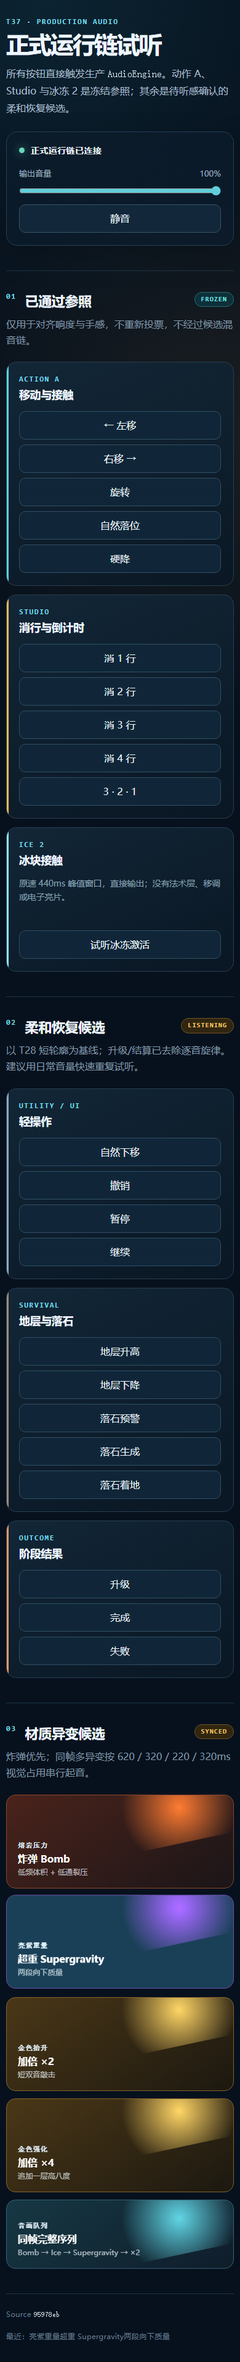
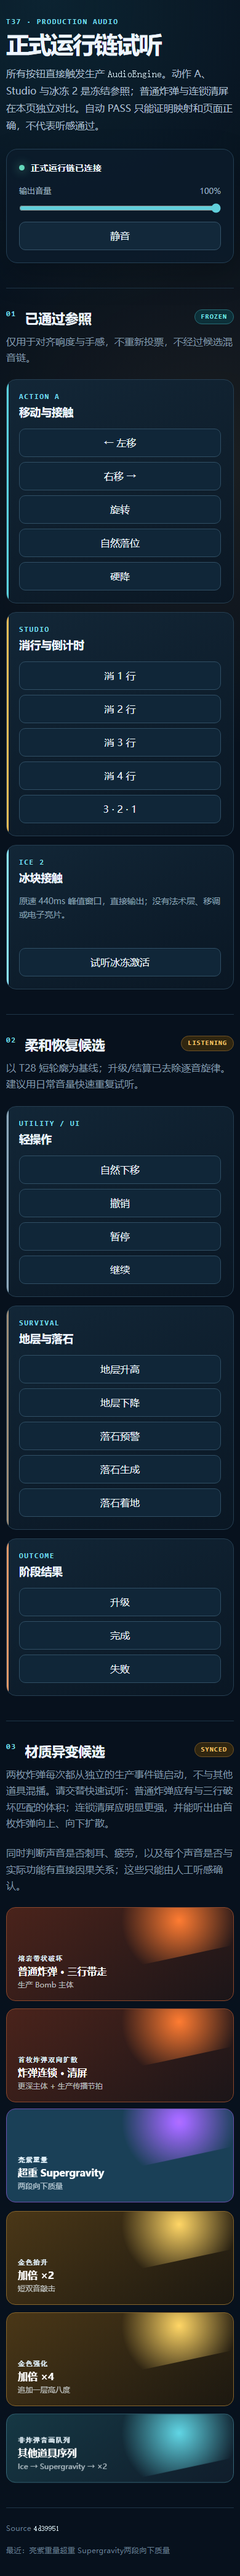
evidence(t37): expose Bomb listening comparison

Changed region(s): [[0.0, 0.1244, 0.9846, 0.9953], [0.0308, 0.0, 0.9846, 0.1866]]

diff --git a/docs/evidence/t37/audio-stage-c-listening/audition.ts b/docs/evidence/t37/audio-stage-c-listening/audition.ts
@@ -1,7 +1,7 @@
 import { AudioEngine } from '../../../../src/game/audio/AudioEngine';
 import type { GameEvent } from '../../../../src/game/core';
 
-const SOURCE_COMMIT = '95978eb8ad5fe66eb77faf05d010df9eb1a66cfa';
+const SOURCE_COMMIT = '4d39951421234c8465960c4b81c6a7df7e0a804d';
 const audio = new AudioEngine();
 const status = document.querySelector<HTMLElement>('#audio-status');
 const lastCue = document.querySelector<HTMLElement>('#last-cue');
@@ -13,18 +13,83 @@ let primed = false;
 let enabled = true;
 let playCount = 0;
 let currentCue = '尚未播放';
+let currentCueId: string | null = null;
+let lastBombOutcome: 'blast' | 'chain-clear' | null = null;
+let lastEventTypes: readonly string[] = [];
+let lastDispatchSequence: readonly string[] = [];
+let lastChainOriginCells: readonly { x: number; y: number }[] = [];
+const bombDispatches = { blast: 0, 'chain-clear': 0 };
 
-const mutation = (item: 'freeze' | 'collapse' | 'bomb' | 'multiplier', multiplierFactor?: 2 | 4): GameEvent => ({
+const mutation = (item: 'freeze' | 'collapse' | 'multiplier', multiplierFactor?: 2 | 4): GameEvent => ({
   type: 'mutation-activated',
   item,
-  durationTicks: item === 'bomb' ? 0 : 600,
-  score: item === 'bomb' ? 300 : 0,
-  rowsRemoved: item === 'bomb' ? 3 : 0,
+  durationTicks: 600,
+  score: 0,
+  rowsRemoved: 0,
   multiplierFactor,
   triggerCells: [{ x: 3, y: 6 }, { x: 4, y: 6 }, { x: 3, y: 7 }, { x: 4, y: 7 }],
 });
 
-const play = (events: readonly GameEvent[]): void => audio.play(events);
+const normalBombEvents: readonly GameEvent[] = [
+  { type: 'clear-started', rows: [38, 39], mutationBombOutcome: 'blast' },
+  {
+    type: 'mutation-activated',
+    item: 'bomb',
+    durationTicks: 0,
+    score: 300,
+    rowsRemoved: 3,
+    triggerCells: [{ x: 4, y: 38 }, { x: 5, y: 38 }, { x: 4, y: 39 }, { x: 5, y: 39 }],
+    bombOutcome: 'blast',
+    blastRows: [37, 38, 39],
+    participatingBombCount: 1,
+  },
+];
+
+const chainOriginCells = [
+  { x: 4, y: 29 }, { x: 5, y: 29 }, { x: 4, y: 30 }, { x: 5, y: 30 },
+] as const;
+const chainBombEvents: readonly GameEvent[] = [
+  { type: 'clear-started', rows: [29], mutationBombOutcome: 'chain-clear' },
+  {
+    type: 'mutation-activated',
+    item: 'bomb',
+    durationTicks: 0,
+    score: 600,
+    rowsRemoved: 6,
+    triggerCells: [
+      ...chainOriginCells,
+      { x: 7, y: 30 }, { x: 8, y: 30 }, { x: 7, y: 31 }, { x: 8, y: 31 },
+    ],
+    bombOutcome: 'chain-clear',
+    blastRows: [28, 29, 30],
+    participatingBombCount: 2,
+    chainOriginCarrierId: 1,
+    chainOriginCells,
+  },
+];
+
+const play = (events: readonly GameEvent[]): void => {
+  lastEventTypes = events.map((event) => event.type);
+  lastDispatchSequence = lastEventTypes;
+  lastBombOutcome = null;
+  lastChainOriginCells = [];
+  audio.play(events);
+};
+const playBomb = (events: readonly GameEvent[]): void => {
+  const activation = events.find((event): event is Extract<GameEvent, { type: 'mutation-activated'; item: 'bomb' }> => (
+    event.type === 'mutation-activated' && event.item === 'bomb'
+  ));
+  if (!activation) throw new Error('Bomb listening control requires a Bomb activation event.');
+  audio.play([{ type: 'restarted' }]);
+  for (const event of events) audio.play([event]);
+  lastEventTypes = events.map((event) => event.type);
+  lastDispatchSequence = ['restarted', ...lastEventTypes];
+  lastBombOutcome = activation.bombOutcome;
+  lastChainOriginCells = activation.bombOutcome === 'chain-clear'
+    ? activation.chainOriginCells.map((cell) => ({ ...cell }))
+    : [];
+  bombDispatches[activation.bombOutcome] += 1;
+};
 const after = (milliseconds: number, callback: () => void): void => {
   const timer = window.setTimeout(() => {
     scheduledTimers.delete(timer);
@@ -55,7 +120,7 @@ const handlers: Readonly<Record<string, () => void>> = {
   },
   freeze: () => play([mutation('freeze')]),
   'soft-drop': () => play([{ type: 'piece-moved', piece: 'T', dx: 0, dy: 1, cause: 'soft-drop' }]),
-  undo: () => play([{ type: 'puzzle-undone' }]),
+  undo: () => play([{ type: 'endgame-undone' }]),
   pause: () => play([{ type: 'paused' }]),
   resume: () => play([{ type: 'resumed' }]),
   'bedrock-rise': () => play([{ type: 'bedrock-raised', count: 1, height: 3 }]),
@@ -66,12 +131,13 @@ const handlers: Readonly<Record<string, () => void>> = {
   'level-up': () => play([{ type: 'level-up', level: 2 }]),
   finished: () => play([{ type: 'finished', completionTicks: 1_800 }]),
   'game-over': () => play([{ type: 'game-over', reason: 'block-out' }]),
-  bomb: () => play([mutation('bomb')]),
+  'bomb-normal': () => playBomb(normalBombEvents),
+  'bomb-chain': () => playBomb(chainBombEvents),
   supergravity: () => play([mutation('collapse')]),
   'multiplier-2': () => play([mutation('multiplier', 2)]),
   'multiplier-4': () => play([mutation('multiplier', 4)]),
   'mutation-sequence': () => play([
-    mutation('freeze'), mutation('collapse'), mutation('bomb'), mutation('multiplier', 2),
+    mutation('freeze'), mutation('collapse'), mutation('multiplier', 2),
   ]),
 };
 
@@ -89,10 +155,14 @@ async function trigger(button: HTMLButtonElement): Promise<void> {
   primed = true;
   handler();
   playCount += 1;
+  currentCueId = id;
   currentCue = button.textContent?.trim().replace(/\s+/g, ' ') ?? id;
   status && (status.textContent = enabled ? '正式运行链已连接' : '当前为静音');
   lastCue && (lastCue.textContent = `最近：${currentCue}`);
-  after(id === 'countdown' || id === 'mutation-sequence' ? 1_820 : 420, () => {
+  const activeMilliseconds = id === 'countdown' || id === 'mutation-sequence'
+    ? 1_820
+    : id === 'bomb-normal' || id === 'bomb-chain' ? 720 : 420;
+  after(activeMilliseconds, () => {
     delete button.dataset.playing;
   });
 }
@@ -135,6 +205,12 @@ window.render_game_to_text = () => JSON.stringify({
   volume: audio.getVolume(),
   playCount,
   currentCue,
+  currentCueId,
+  lastBombOutcome,
+  lastEventTypes,
+  lastDispatchSequence,
+  lastChainOriginCells,
+  bombDispatches: { ...bombDispatches },
   pendingTimers: scheduledTimers.size,
 });
 window.__T37_STAGE_C_READY__ = true;

diff --git a/docs/evidence/t37/audio-stage-c-listening/index.html b/docs/evidence/t37/audio-stage-c-listening/index.html
@@ -13,7 +13,7 @@
         <div>
           <p class="eyebrow">T37 · PRODUCTION AUDIO</p>
           <h1>正式运行链试听</h1>
-          <p class="lede">所有按钮直接触发生产 <code>AudioEngine</code>。动作 A、Studio 与冰冻 2 是冻结参照；其余是待听感确认的柔和恢复候选。</p>
+          <p class="lede" data-listening-gate="automatic">所有按钮直接触发生产 <code>AudioEngine</code>。动作 A、Studio 与冰冻 2 是冻结参照；普通炸弹与连锁清屏在本页独立对比。自动 PASS 只能证明映射和页面正确，不代表听感通过。</p>
         </div>
         <aside class="mix-panel" aria-label="试听输出控制">
           <div class="status-row"><span class="status-dot" aria-hidden="true"></span><strong id="audio-status">等待首次交互</strong></div>
@@ -100,17 +100,19 @@
           <div><p class="section-index">03</p><h2 id="mutation-title">材质异变候选</h2></div>
           <span class="badge candidate">SYNCED</span>
         </div>
-        <p class="section-note">炸弹优先；同帧多异变按 620 / 320 / 220 / 320ms 视觉占用串行起音。</p>
+        <p class="section-note">两枚炸弹每次都从独立的生产事件链启动，不与其他道具混播。请交替快速试听：普通炸弹应有与三行破坏匹配的体积；连锁清屏应明显更强，并能听出由首枚炸弹向上、向下扩散。</p>
+        <p class="section-note" data-listening-gate="human">同时判断声音是否刺耳、疲劳，以及每个声音是否与实际功能有直接因果关系；这些只能由人工听感确认。</p>
         <div class="mutation-grid">
-          <button class="material-button lava" data-cue="bomb" type="button"><small>熔岩压力</small><strong>炸弹 Bomb</strong><span>低频体积 + 低通裂压</span></button>
+          <button class="material-button lava" data-cue="bomb-normal" type="button"><small>熔岩带状破坏</small><strong>普通炸弹 · 三行带走</strong><span>生产 Bomb 主体</span></button>
+          <button class="material-button lava" data-cue="bomb-chain" type="button"><small>首枚炸弹双向扩散</small><strong>炸弹连锁 · 清屏</strong><span>更深主体 + 生产传播节拍</span></button>
           <button class="material-button violet" data-cue="supergravity" type="button"><small>亮紫重量</small><strong>超重 Supergravity</strong><span>两段向下质量</span></button>
           <button class="material-button bullion" data-cue="multiplier-2" type="button"><small>金色抬升</small><strong>加倍 ×2</strong><span>短双音敲击</span></button>
           <button class="material-button bullion-strong" data-cue="multiplier-4" type="button"><small>金色强化</small><strong>加倍 ×4</strong><span>追加一层高八度</span></button>
-          <button class="material-button sequence" data-cue="mutation-sequence" type="button"><small>音画队列</small><strong>同帧完整序列</strong><span>Bomb → Ice → Supergravity → ×2</span></button>
+          <button class="material-button sequence" data-cue="mutation-sequence" type="button"><small>非炸弹音画队列</small><strong>其他道具序列</strong><span>Ice → Supergravity → ×2</span></button>
         </div>
       </section>
 
-      <footer><span>Source <code>95978eb</code></span><span id="last-cue">尚未播放</span></footer>
+      <footer><span>Source <code>4d39951</code></span><span id="last-cue">尚未播放</span></footer>
     </main>
     <script type="module" src="./audition.ts"></script>
   </body>

diff --git a/docs/evidence/t37/audio-stage-c-listening/README.md b/docs/evidence/t37/audio-stage-c-listening/README.md
@@ -6,8 +6,10 @@ not copy frequencies, envelopes, buffers, or Mutation scheduling into evidence c
 Human status is fail-closed:
 
 - Action A, Studio clear/countdown, and Ice 2 are frozen references.
-- Utility/UI, Survival, outcomes, Bomb, Multiplier, and Supergravity remain listening
-  candidates even when the automated browser audit passes.
+- Utility/UI, Survival, outcomes, both normal and chain-clear Bomb, Multiplier, and
+  Supergravity remain listening candidates even when the automated browser audit passes.
+- The automated audit proves source binding, control dispatch, layout, and browser error
+  status. It cannot accept loudness, causal fit, harshness, fatigue, or propagation feel.
 
 Run the self-contained browser verifier:
 
@@ -15,11 +17,20 @@ Run the self-contained browser verifier:
 node docs/evidence/t37/audio-stage-c-listening/verify-audition.mjs
 ```
 
-For manual listening, start the repository Vite server and open:
+For manual listening, start the repository Vite server:
 
-```text
-/docs/evidence/t37/audio-stage-c-listening/index.html
+```powershell
+npm.cmd run dev -- --host 127.0.0.1 --port 5173
 ```
 
-Use ordinary device volume. The final button intentionally sends Bomb, Ice,
-Supergravity, and Multiplier in one Core batch so production serialization can be heard.
+Then open:
+
+```text
+http://127.0.0.1:5173/docs/evidence/t37/audio-stage-c-listening/index.html
+```
+
+Use ordinary device volume and alternate **普通炸弹 · 三行带走** with
+**炸弹连锁 · 清屏**. Judge explosion weight, direct relation to the effect,
+harshness/fatigue, whether chain clear is clearly stronger, and whether its propagation
+can be heard moving both upward and downward from the first Bomb. Only the player's
+explicit listening verdict can pass this gate.
